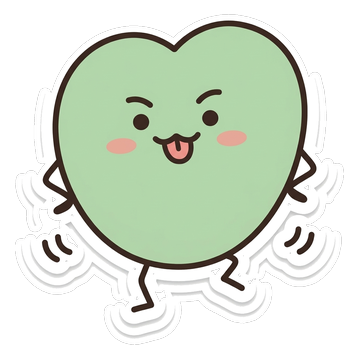
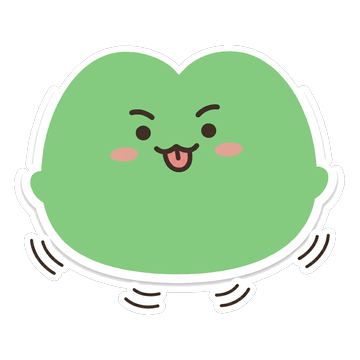
feat(chat): 비개구리를 남녀 두 마리로 — 모찌 몸통으로 전면 교체, 14+14
몸통을 뾰족한 하트에서 **모찌(슬라임) 덩어리**로 바꾸고, 같은 그림을 초록/분홍 두 벌로
갈라 비개구리(남)·비개구리(여)를 만들었다. 이미지 스티커는 38장(비개구리 14+14, 곰돌이 10).

**몸통 확정까지 여러 판을 버렸다.** 모양을 프롬프트 글로만 설명하면 호출마다 실루엣이 새로
만들어져, "색만 진하게"를 요청해도 모양이 같이 흔들렸다. 그래서 순서를 뒤집었다 —
기준 원본 한 장(`bigae-anchor.png`)을 먼저 굳히고, 그 그림을 `--ref` 로 박아 24장을 뽑고,
색은 생성이 아니라 후처리(`unify_body_color.py`)로 입혔다. 24장의 몸통 중앙값이
#71BA68~#99D490 까지 벌어져 있던 것도 이 후처리로 한 색(#86CB7F / #E58FA9)이 됐다.

**원래 스케치가 아니라 완성 스티커를 입력으로 썼다**(`restyle.mjs`). 1차 10종은 어느
스케치가 어느 코드가 됐는지 매핑이 남아 있지 않았고, 스케치에서 다시 뽑으면 표정·소품이
또 흔들린다. 완성본을 주면 바뀌는 건 몸통뿐이다.

구성 — 공용 4종(윙크·시무룩·짜증나·축 처짐)은 양쪽에 같은 그림이 색만 바뀌어 들어간다.
둘 다 쓰는 표정이라 한쪽에만 두면 나머지 한 사람이 못 쓴다.

  (남) 좋아·히히·하하하·신났어·룰루랄라·선물이야·화났어·흥 간다·어질~·퇴근 + 공용 4
  (여) 좋아좋아·뽀뽀·방긋·흐뭇·기분 좋아·꽃단장·예뻐졌지?·어머·엉엉·잘자 + 공용 4

**따로 손본 6장**: 팔이 사라지면서 들고 있던 물건이 공중에 뜨거나(좋아좋아·흥 간다·꽃단장),
앵커를 무시하고 하트 몸으로 돌아가거나(뽀뽀), 없던 소품이 생기거나(꽃단장의 선물상자),
IMAGE 1 의 얼굴을 베껴 와 다른 장과 같아진(신났어) 경우다. 하하하는 원본부터 팔이 얼굴을
가로질러 선처럼 보였는데 이참에 내렸다.

`BIGAE_LOVE`·`KISS`·`CRYING`·`SLEEPY` 는 분홍 쪽으로 옮겨 `BIGAEF_` 가 됐다. 배포 전이라
그 코드로 보낸 메시지가 없어서 가능했다 — 이미 나간 코드였다면 말풍선에 코드 문자열이
그대로 뜬다.

검증: npm run typecheck, StickerImageSyncTest, build:web(dist 에 38장 · bigaef_ 14장 확인).

diff --git a/frontend/src/constants/stickerImages.ts b/frontend/src/constants/stickerImages.ts
@@ -53,29 +53,51 @@ export const STICKER_CHARACTERS: StickerCharacter[] = [
     key: 'bigae',
     label: '비개구리',
     /*
-     * 18종 — 1차 10종(2026-09-08)에 2차 스케치 8종(2026-09-14)을 섞었다. 새 것을 뒤에 붙이지
-     * 않고 감정 흐름대로 다시 늘어놨다(기쁨 → 애정 → 신남 → 삐짐·화 → 슬픔 → 지침 → 잘자).
-     * 뒤에 붙이면 "좋아"가 17번째에 앉아 스크롤을 내려야 나오는데, 이 세트는 아직 실사용
-     * 이력이 없어 자리를 외운 사람이 없다 — 지금이 아니면 못 고친다.
+     * 14종. 공용 4종(윙크·시무룩·짜증나·축 처짐)은 아래 비개구리(여)에도 같은 그림이 색만
+     * 바뀐 채로 들어간다 — 둘 다 쓰는 표정이라 한쪽에만 두면 나머지 한 사람이 못 쓴다.
      */
     stickers: [
-      { code: 'BIGAE_LOVE', label: '좋아좋아', source: require('../../assets/stickers/bigae_love.png') },
       { code: 'BIGAE_LIKE', label: '좋아', source: require('../../assets/stickers/bigae_like.png') },
       { code: 'BIGAE_HEHE', label: '히히', source: require('../../assets/stickers/bigae_hehe.png') },
       { code: 'BIGAE_LAUGH', label: '하하하', source: require('../../assets/stickers/bigae_laugh.png') },
-      { code: 'BIGAE_KISS', label: '뽀뽀', source: require('../../assets/stickers/bigae_kiss.png') },
-      { code: 'BIGAE_GIFT', label: '선물이야', source: require('../../assets/stickers/bigae_gift.png') },
       { code: 'BIGAE_EXCITED', label: '신났어', source: require('../../assets/stickers/bigae_excited.png') },
       { code: 'BIGAE_DANCE', label: '룰루랄라', source: require('../../assets/stickers/bigae_dance.png') },
+      { code: 'BIGAE_GIFT', label: '선물이야', source: require('../../assets/stickers/bigae_gift.png') },
+      { code: 'BIGAE_WINK', label: '윙크', source: require('../../assets/stickers/bigae_wink.png') },
       { code: 'BIGAE_SULKY', label: '시무룩', source: require('../../assets/stickers/bigae_sulky.png') },
       { code: 'BIGAE_GRUMPY', label: '짜증나', source: require('../../assets/stickers/bigae_grumpy.png') },
       { code: 'BIGAE_ANGRY', label: '화났어', source: require('../../assets/stickers/bigae_angry.png') },
       { code: 'BIGAE_DASH', label: '흥, 간다', source: require('../../assets/stickers/bigae_dash.png') },
-      { code: 'BIGAE_CRYING', label: '엉엉', source: require('../../assets/stickers/bigae_crying.png') },
       { code: 'BIGAE_GLOOMY', label: '축 처짐', source: require('../../assets/stickers/bigae_gloomy.png') },
       { code: 'BIGAE_DIZZY', label: '어질~', source: require('../../assets/stickers/bigae_dizzy.png') },
       { code: 'BIGAE_OFFWORK', label: '퇴근', source: require('../../assets/stickers/bigae_offwork.png') },
-      { code: 'BIGAE_SLEEPY', label: '잘자', source: require('../../assets/stickers/bigae_sleepy.png') },
+    ],
+  },
+  {
+    /*
+     * 같은 캐릭터의 분홍 판. 그림은 초록 쪽과 같은 원본에서 <b>색상만 돌려</b> 만든다
+     * (`unify_body_color.py`) — 다시 그리면 실루엣이 어긋나기 때문이다.
+     *
+     * 색만 다른 게 아니라 <b>구성이 다르다</b> — 이쪽에만 꽃단장·예뻐졌지?·뽀뽀·잘자가 있고
+     * 저쪽에만 퇴근·흥 간다·선물이야가 있다. 공용 4종은 양쪽에 같은 이름으로 들어간다.
+     */
+    key: 'bigae-f',
+    label: '비개구리(여)',
+    stickers: [
+      { code: 'BIGAEF_LOVE', label: '좋아좋아', source: require('../../assets/stickers/bigaef_love.png') },
+      { code: 'BIGAEF_KISS', label: '뽀뽀', source: require('../../assets/stickers/bigaef_kiss.png') },
+      { code: 'BIGAEF_BEAM', label: '방긋', source: require('../../assets/stickers/bigaef_beam.png') },
+      { code: 'BIGAEF_CONTENT', label: '흐뭇', source: require('../../assets/stickers/bigaef_content.png') },
+      { code: 'BIGAEF_FLOWER', label: '기분 좋아', source: require('../../assets/stickers/bigaef_flower.png') },
+      { code: 'BIGAEF_MAKEUP', label: '꽃단장', source: require('../../assets/stickers/bigaef_makeup.png') },
+      { code: 'BIGAEF_RIBBON', label: '예뻐졌지?', source: require('../../assets/stickers/bigaef_ribbon.png') },
+      { code: 'BIGAEF_WINK', label: '윙크', source: require('../../assets/stickers/bigaef_wink.png') },
+      { code: 'BIGAEF_OH', label: '어머', source: require('../../assets/stickers/bigaef_oh.png') },
+      { code: 'BIGAEF_SULKY', label: '시무룩', source: require('../../assets/stickers/bigaef_sulky.png') },
+      { code: 'BIGAEF_GRUMPY', label: '짜증나', source: require('../../assets/stickers/bigaef_grumpy.png') },
+      { code: 'BIGAEF_CRYING', label: '엉엉', source: require('../../assets/stickers/bigaef_crying.png') },
+      { code: 'BIGAEF_GLOOMY', label: '축 처짐', source: require('../../assets/stickers/bigaef_gloomy.png') },
+      { code: 'BIGAEF_SLEEPY', label: '잘자', source: require('../../assets/stickers/bigaef_sleepy.png') },
     ],
   },
   {

diff --git a/backend/src/main/java/com/fitto/chat/domain/StickerImage.java b/backend/src/main/java/com/fitto/chat/domain/StickerImage.java
@@ -38,27 +38,38 @@ public enum StickerImage {
     BEAR_TIRED("지쳤어"),
     BEAR_SLEEPY("잘자"),
 
-    // 비개구리 17종 — 사용자 손그림 스케치를 스티커화한 자체 캐릭터(설계 메모 §15·§17·§20).
-    // 1차 10종 + 2차 스케치 8종(LIKE·HEHE·KISS·GIFT·DANCE·GRUMPY·DIZZY·OFFWORK) − BIGAE_WIGGLE.
-    // WIGGLE(뒷모습 엉덩이)은 DANCE(뒷모습 + 음표)와 실루엣이 같아 뺐다(§20). 배포 전이라
-    // 그 코드로 보낸 메시지는 없다 — 있었다면 말풍선에 코드 문자열이 그대로 뜬다.
-    BIGAE_LOVE("좋아좋아"),
+    // 비개구리(남) 14종 — 초록. 사용자 손그림을 스티커화한 자체 캐릭터(설계 메모 §15·§17·§20·§21).
+    // 공용 4종(WINK·SULKY·GRUMPY·GLOOMY)은 아래 BIGAEF_ 쪽에도 같은 그림이 색만 바뀌어 들어간다.
     BIGAE_LIKE("좋아"),
     BIGAE_HEHE("히히"),
     BIGAE_LAUGH("하하하"),
-    BIGAE_KISS("뽀뽀"),
-    BIGAE_GIFT("선물이야"),
     BIGAE_EXCITED("신났어"),
     BIGAE_DANCE("룰루랄라"),
+    BIGAE_GIFT("선물이야"),
+    BIGAE_WINK("윙크"),
     BIGAE_SULKY("시무룩"),
     BIGAE_GRUMPY("짜증나"),
     BIGAE_ANGRY("화났어"),
     BIGAE_DASH("흥, 간다"),
-    BIGAE_CRYING("엉엉"),
     BIGAE_GLOOMY("축 처짐"),
     BIGAE_DIZZY("어질~"),
     BIGAE_OFFWORK("퇴근"),
-    BIGAE_SLEEPY("잘자");
+
+    // 비개구리(여) 14종 — 분홍. 같은 원본에서 색상만 돌린 판이라 실루엣이 초록과 동일하다.
+    BIGAEF_LOVE("좋아좋아"),
+    BIGAEF_KISS("뽀뽀"),
+    BIGAEF_BEAM("방긋"),
+    BIGAEF_CONTENT("흐뭇"),
+    BIGAEF_FLOWER("기분 좋아"),
+    BIGAEF_MAKEUP("꽃단장"),
+    BIGAEF_RIBBON("예뻐졌지?"),
+    BIGAEF_WINK("윙크"),
+    BIGAEF_OH("어머"),
+    BIGAEF_SULKY("시무룩"),
+    BIGAEF_GRUMPY("짜증나"),
+    BIGAEF_CRYING("엉엉"),
+    BIGAEF_GLOOMY("축 처짐"),
+    BIGAEF_SLEEPY("잘자");
 
     private final String label;
 
